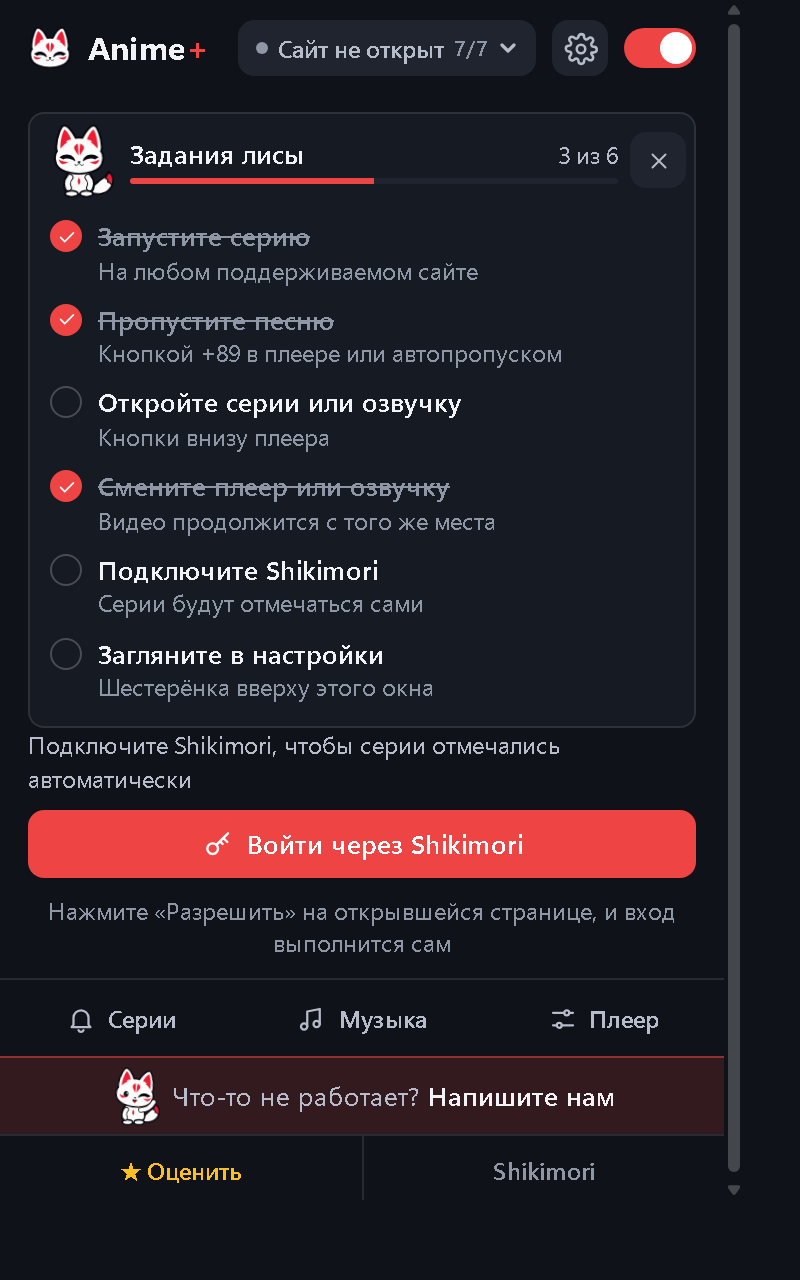
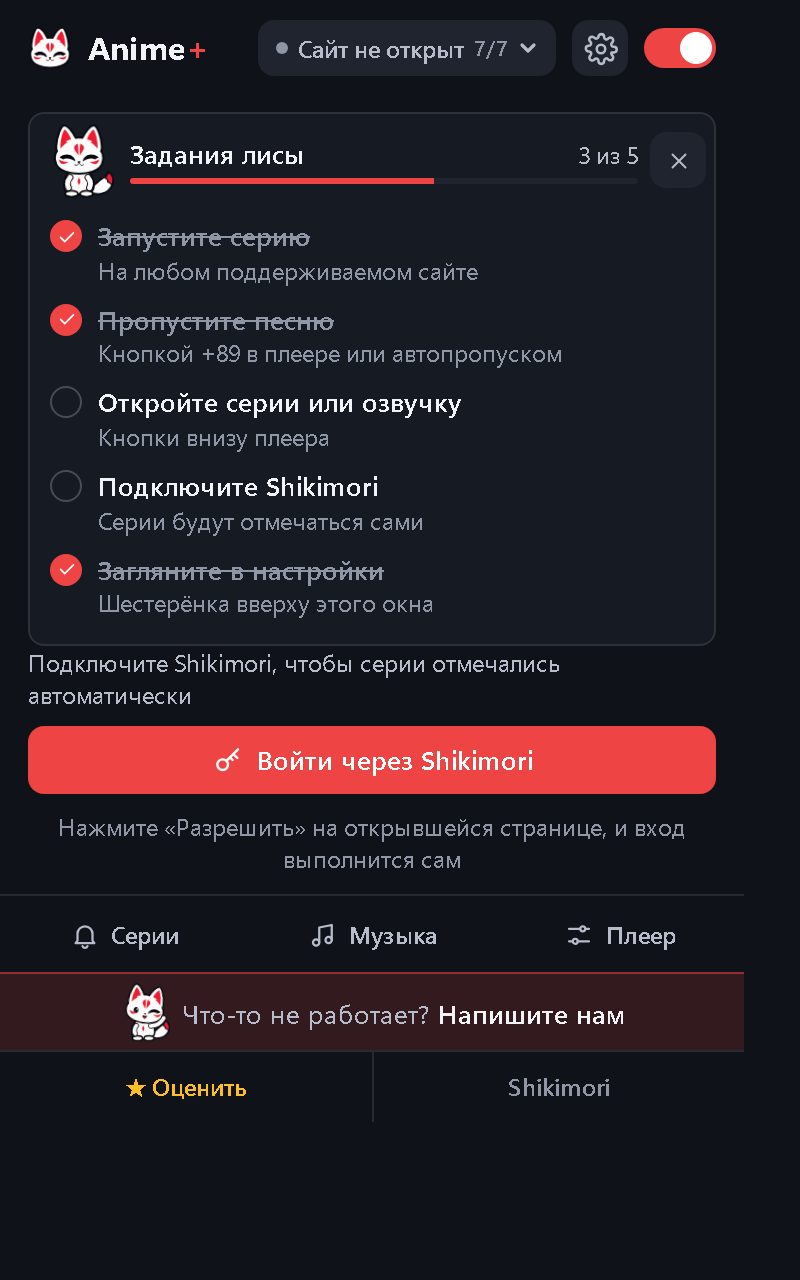
Лиса рассказывает о смене плеера только в самом плеере
- Из окна расширения убраны шаг экскурсии и задание о смене плеера
- Обновлены изображения экскурсии и заданий в README

diff --git a/popup/guide-tour.js b/popup/guide-tour.js
@@ -17,8 +17,7 @@
         { target: '.bottom-tabs', pose: 'down', text: '«Серии» покажут новые выпуски, «Музыка» найдёт опенинги и эндинги, а «Плеер» запустит кнопки вручную, если они не появились.' },
         { target: '#btnSettings', pose: 'up', text: 'За шестерёнкой озвучка, горячие клавиши и случайное аниме.' },
         { target: '#btn-support', pose: 'wink', text: 'Что-то не работает или есть идея? Напишите сюда, это прямо в расширении. Я всё передам.' },
-        { pose: 'wow', demo: true, text: 'А это главное: плеер и озвучка меняются без перерыва. Видео продолжится с того же места и сразу запустится, даже в полном экране.' },
-        { pose: 'party', text: 'Вот и всё! Дальше шесть заданий: выполняйте их как удобно, а отмечаться они будут сами.', last: true }
+        { pose: 'party', text: 'Вот и всё! Дальше пять заданий: выполняйте их как удобно, а отмечаться они будут сами.', last: true }
     ];
 
     $('supportFox').innerHTML = AgGuideFox.svg('wink');
@@ -136,7 +135,6 @@
         const step = steps[index];
         $('tourFox').innerHTML = AgGuideFox.svg(step.pose);
         $('tourText').textContent = step.text;
-        $('tourDemo').replaceChildren(...(step.demo ? [AgGuide.switchDemo('Kodik', 'Alloha', '12:34')] : []));
         $('tourCount').textContent = `${index + 1} из ${steps.length}`;
         $('tourBack').hidden = index === 0;
         $('tourNext').textContent = step.last ? 'Показать задания' : 'Дальше';

diff --git a/modules/shared/guide.js b/modules/shared/guide.js
@@ -11,15 +11,14 @@
         { id: 'play', title: 'Запустите серию', hint: 'На любом поддерживаемом сайте' },
         { id: 'skip', title: 'Пропустите песню', hint: 'Кнопкой +89 в плеере или автопропуском' },
         { id: 'panel', title: 'Откройте серии или озвучку', hint: 'Кнопки внизу плеера' },
-        { id: 'switch', title: 'Смените плеер или озвучку', hint: 'Видео продолжится с того же места' },
         { id: 'shiki', title: 'Подключите Shikimori', hint: 'Серии будут отмечаться сами' },
         { id: 'settings', title: 'Загляните в настройки', hint: 'Шестерёнка вверху этого окна' }
     ];
 
     const TASK_IDS = TASKS.map(t => t.id);
 
-    // Просьба об оценке не зависит от Shikimori: аккаунт есть не у всех. Смена плеера появилась позже, и тем, кто уже прошёл задания, просьбу она не отодвигает
-    const RATING_TASKS = TASK_IDS.filter(id => id !== 'shiki' && id !== 'switch');
+    // Просьба об оценке не зависит от Shikimori: аккаунт есть не у всех
+    const RATING_TASKS = TASK_IDS.filter(id => id !== 'shiki');
     const DAY_MS = 24 * 60 * 60 * 1000;
     const RATING_AFTER_MS = 3 * DAY_MS;
     const RATING_LATER_MS = 14 * DAY_MS;

diff --git a/modules/player/shell.js b/modules/player/shell.js
@@ -540,7 +540,6 @@
                 b.querySelector('.meta').textContent = v.count ? `${v.count} сер.` : '';
                 b.addEventListener('click', () => {
                     if (v.selected) return;
-                    if (options.guide) options.guide.mark('switch');
                     if (guideOpen) closeGuide();
                     if (options.onVoicePicked && !usesSite('voices')) options.onVoicePicked(v.title);
                     pickItem('voices', v.index);
@@ -597,7 +596,6 @@
                     b.querySelector('.name').textContent = p.title;
                     b.addEventListener('click', () => {
                         if (p.selected) return;
-                        if (options.guide) options.guide.mark('switch');
                         if (guideOpen) closeGuide();
                         // Новый плеер запустится сам: этот должен замолчать сразу, а не когда его кадр уберут
                         if (video) video.pause();

diff --git a/popup/popup.html b/popup/popup.html
@@ -215,7 +215,6 @@
         <div class="tour-bubble" id="tourBubble" role="dialog" aria-label="Экскурсия по Anime+">
             <div class="tour-fox" id="tourFox"></div>
             <div class="tour-main">
-                <div id="tourDemo"></div>
                 <p class="tour-text" id="tourText" aria-live="polite"></p>
                 <div class="tour-actions">
                     <span class="tour-count" id="tourCount"></span>

diff --git a/README.md b/README.md
@@ -94,7 +94,7 @@
 ### 🦊 Лиса-экскурсовод
 - При первом открытии лиса с логотипа показывает окно расширения и подсказывает, что есть в плеере.
 - Лиса показывает смену плеера и озвучки прямо в плеере: открывает нужную панель и подсвечивает, куда нажать.
-- Шесть заданий отмечаются сами, когда вы их выполнили.
+- Пять заданий отмечаются сами, когда вы их выполнили.
 - Экскурсию можно пропустить или пройти заново в настройках.
 
 ### 📊 Shikimori
